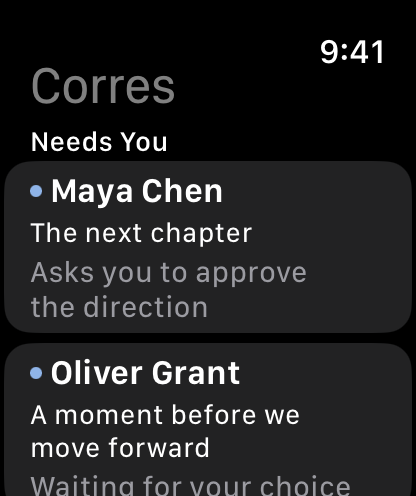
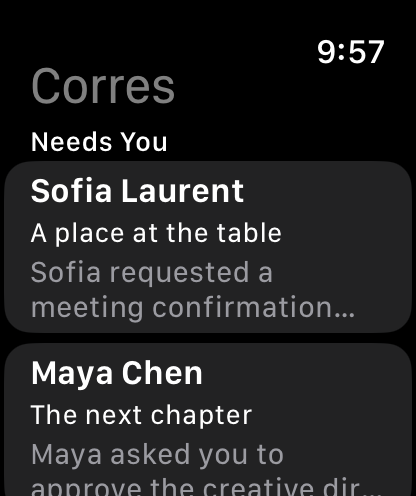
App Store screenshots retaken at 9:57 with no charging bolt
Every iPhone (8), iPad (3), Apple Watch (4) and localized iPhone set (8
languages, 10 store locales) is new from today's build: 9:57, a full
battery that isn't charging, sample mail from this morning, and the
made-up Gmail, Outlook and iCloud accounts in their colours, replaced in
App Store Connect through asc-listing.mjs replace-shots.

diff --git a/Docs/app-store-listing.md b/Docs/app-store-listing.md
@@ -246,7 +246,9 @@ documented keyword limit is 100 bytes, not characters.
 Required: **iPhone 6.9"** (1320 × 2868) and, since Corres runs on iPad,
 **iPad 13"** (2064 × 2752). Up to 10 each; Apple shows the first 3 in
 search, so those carry the pitch. Made from the Simulator with sample mail
-(never real mail), dark and light, 9:41, with a short headline above each:
+(never real mail), dark and light, at 9:57 (the owner's birth time, our own
+signature) with a full battery that isn't charging, never the charging bolt,
+with a short headline above each:
 
 1. **Know what needs you.** Needs You with Due soon, When you can and a reason on each row.
 2. **Every account, one inbox.** Primary with Gmail, Outlook and iCloud colors.
@@ -263,7 +265,9 @@ originals sit beside them) and three iPad 13" (2064 × 2752): Know what needs
 you, Every account one inbox, Ask your mail, Invitations answered, Never lose
 a thread, Private by design. Re-render with
 `swift Scripts/RenderStoreShot.swift <capture> <out> "Headline." "Line under it."`
-from Simulator captures of fresh sample mail (status bar at 9:41).
+from Simulator captures of fresh sample mail (status bar at 9:57). All
+iPhone, iPad and language sets were retaken 2026-10-26 at 9:57 without the
+charging bolt; the capture flags are in Scripts/store-shots.
 
 Mac (macOS App 1.0, retaken 2026-10-26 because the 2026-10-19 set still
 showed Unread in the sidebar): six 2880 × 1800 in `Docs/AppStore/mac/`
@@ -272,7 +276,7 @@ from the keyboard, Never lose a thread, Replies that sound like you),
 captured from a debug build run with `-SampleMailOnly -CorresScreenshots
 -corres.appearance dark -ShowMailbox … -SelectThread sample-N` (plus
 `-SearchFor "…"`, `-ShowPalette` for ⌘K, `-SampleReplies`), with `TZ` set to
-a zone where it's just past 9:41 so the sample mail reads as this morning,
+a zone where it's just past 9:57 so the sample mail reads as this morning,
 and uploaded with `node Scripts/asc-listing.mjs replace-shots en-US
 APP_DESKTOP Docs/AppStore/mac/mac-*.png`
 (sample mail in memory, Spotlight off, so a real Corres on the same Mac is
@@ -291,15 +295,16 @@ size; Apple asks for one Watch size, the same in every language) in
 3. `watch-3.png` Reply: "Say or write a reply" and ready answers.
 4. `watch-4.png` The watch face (Modular) with the Needs You complications.
 
-All at 9:41, sample mail, no alpha channel (Apple's specification says
+All at 9:57 (retaken 2026-10-26), sample mail, no alpha channel (Apple's specification says
 screenshots can't have one; the old Watch set did, unlike the iPhone, iPad
 and Mac sets). How they're made: the
 Watch simulator can't override its status bar, so the simulator's time
-zone is set to one where it is 9:41 at the next :41 of the hour
+zone is set to one where it is 9:57 at the next :57 of the hour
 (`xcrun simctl spawn <watch> launchctl setenv TZ Asia/Shanghai`, then
 restart Carousel), and the app is launched with `-SampleSnapshot` plus
 `-WatchScreen detail` or `-WatchScreen reply` (DEBUG only) to open the
-first email or its reply. Terminating the app returns to the face.
+first email or its reply. Terminating the app returns to the face. Run the app
+once before shooting the face, or its complications still say 0.
 
 ## Other languages
 
